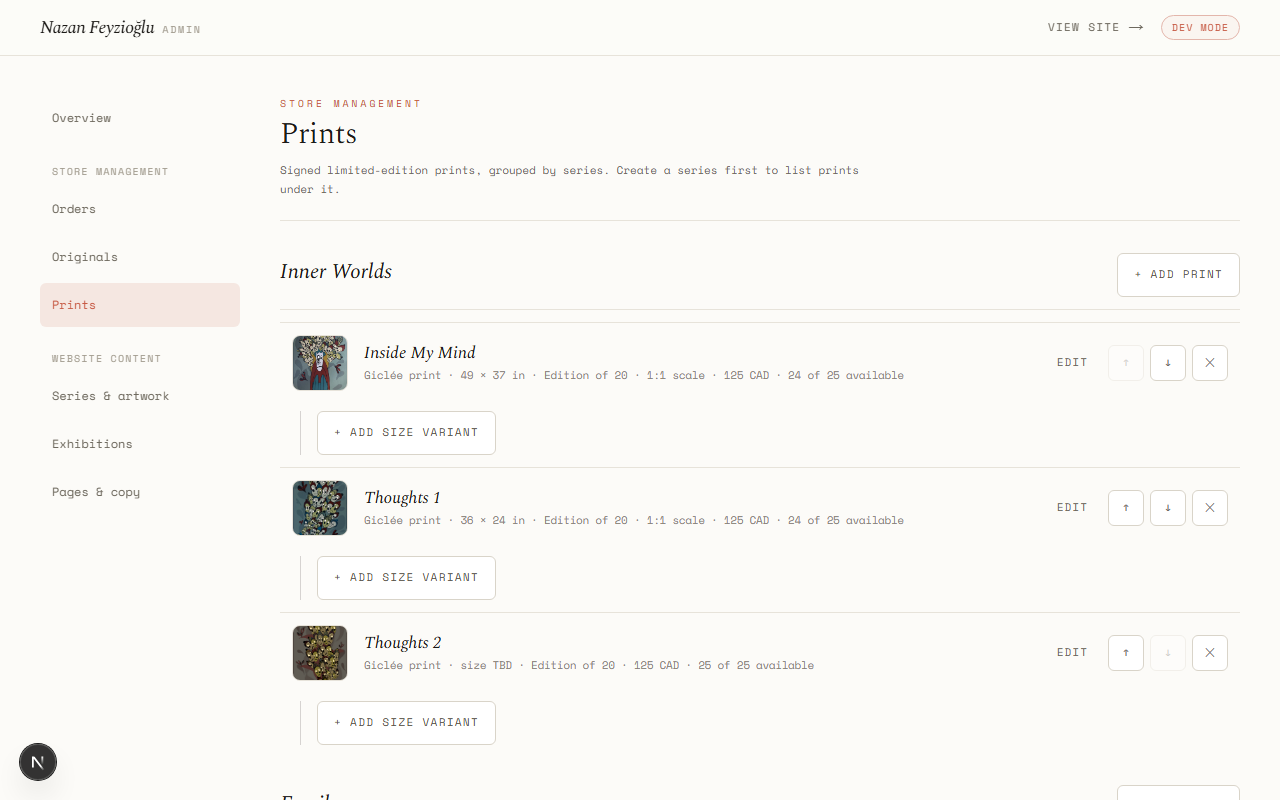
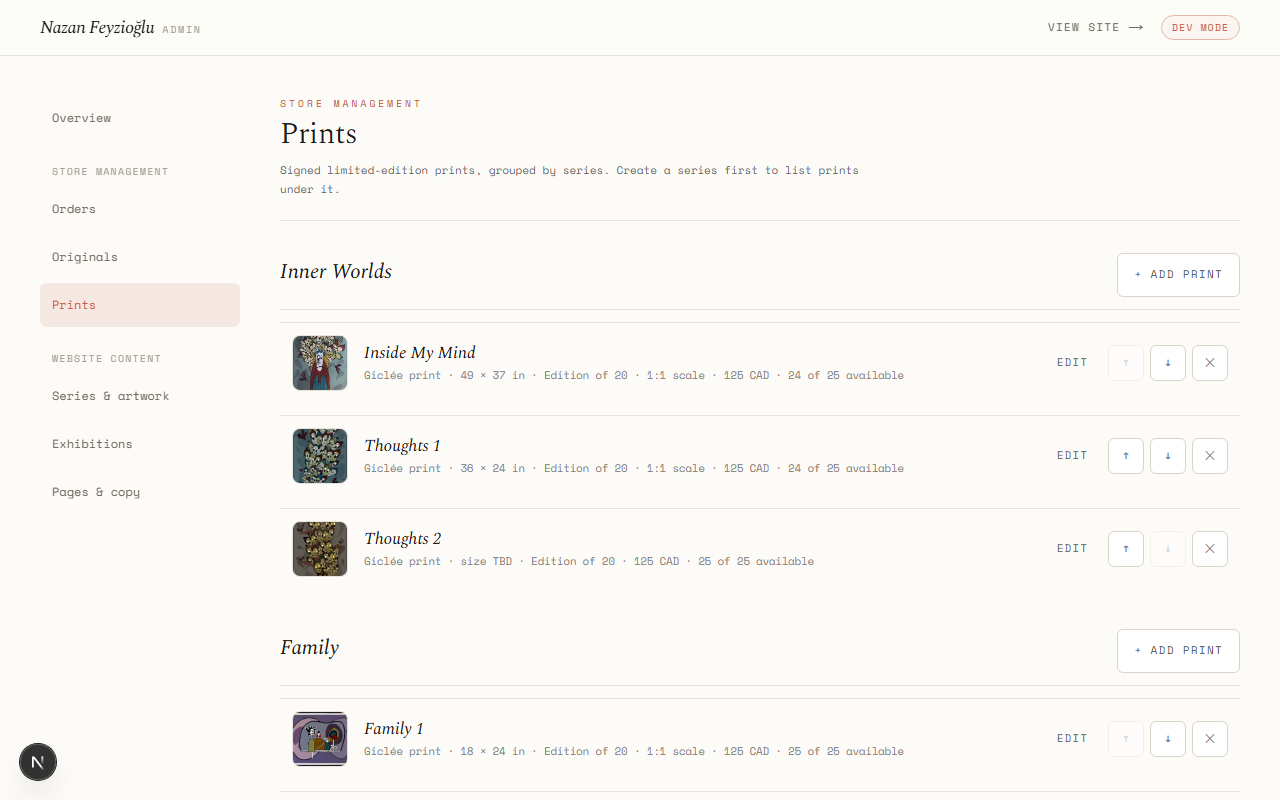
Move size variant creation into print editor

diff --git a/src/app/admin/prints/page.tsx b/src/app/admin/prints/page.tsx
@@ -139,6 +139,66 @@ export default function AdminPrintsPage() {
                         onSave={(values) =>
                           update.mutate({ id: p.id, ...values })
                         }
+                        variantAction={
+                          p.id === family.id ? (
+                            <div className="border-line mt-6 border-t pt-3">
+                              <button
+                                type="button"
+                                aria-expanded={addingVariant === family.id}
+                                aria-controls={`size-variant-${family.id}`}
+                                className="hover-clay text-stone min-h-11 cursor-pointer font-mono text-[11px] underline underline-offset-4"
+                                onClick={() =>
+                                  setAddingVariant(
+                                    addingVariant === family.id
+                                      ? null
+                                      : family.id,
+                                  )
+                                }
+                              >
+                                {addingVariant === family.id
+                                  ? "Cancel"
+                                  : "+ Add size variant"}
+                              </button>
+                              {addingVariant === family.id && (
+                                <div
+                                  id={`size-variant-${family.id}`}
+                                  className="mt-3"
+                                >
+                                  <p className="mb-4 text-sm">
+                                    Add a different size with its own price and
+                                    edition stock.
+                                  </p>
+                                  <PrintForm
+                                    key={`variant-${family.id}`}
+                                    initial={{
+                                      ...family,
+                                      imageWidthInches: null,
+                                      imageHeightInches: null,
+                                      priceCents: null,
+                                      editionSize: null,
+                                    }}
+                                    pending={create.isPending}
+                                    error={create.error?.message}
+                                    submitLabel="Add size variant"
+                                    onSubmit={(values) =>
+                                      create.mutate(
+                                        {
+                                          ...values,
+                                          seriesId: group.id,
+                                          parentPrintId: family.id,
+                                        },
+                                        {
+                                          onSuccess: () =>
+                                            setAddingVariant(null),
+                                        },
+                                      )
+                                    }
+                                  />
+                                </div>
+                              )}
+                            </div>
+                          ) : undefined
+                        }
                         controls={
                           <RowControls
                             onUp={
@@ -172,51 +232,6 @@ export default function AdminPrintsPage() {
                         }
                       />
                     ))}
-                    <div className="ml-5 border-l border-stone-300 pl-4">
-                      <Button
-                        variant="ghost"
-                        onClick={() =>
-                          setAddingVariant(
-                            addingVariant === family.id ? null : family.id,
-                          )
-                        }
-                      >
-                        {addingVariant === family.id
-                          ? "Cancel"
-                          : "+ Add size variant"}
-                      </Button>
-                      {addingVariant === family.id && (
-                        <div className={`mt-3 p-5 ${cardCls}`}>
-                          <p className="mb-4 text-sm">
-                            Add a different size with its own price and edition
-                            stock.
-                          </p>
-                          <PrintForm
-                            key={`variant-${family.id}`}
-                            initial={{
-                              ...family,
-                              imageWidthInches: null,
-                              imageHeightInches: null,
-                              priceCents: null,
-                              editionSize: null,
-                            }}
-                            pending={create.isPending}
-                            error={create.error?.message}
-                            submitLabel="Add size variant"
-                            onSubmit={(values) =>
-                              create.mutate(
-                                {
-                                  ...values,
-                                  seriesId: group.id,
-                                  parentPrintId: family.id,
-                                },
-                                { onSuccess: () => setAddingVariant(null) },
-                              )
-                            }
-                          />
-                        </div>
-                      )}
-                    </div>
                   </div>
                 ))}
                 {group.prints.length === 0 && (
@@ -387,12 +402,14 @@ function PrintCard({
   pending,
   error,
   controls,
+  variantAction,
 }: {
   print: PrintRow;
   onSave: (values: PrintFormValues) => void;
   pending: boolean;
   error?: string;
   controls: React.ReactNode;
+  variantAction?: React.ReactNode;
 }) {
   return (
     <CollapsibleRowCard
@@ -420,6 +437,7 @@ function PrintCard({
         error={error}
         submitLabel="Save print"
       />
+      {variantAction}
     </CollapsibleRowCard>
   );
 }
